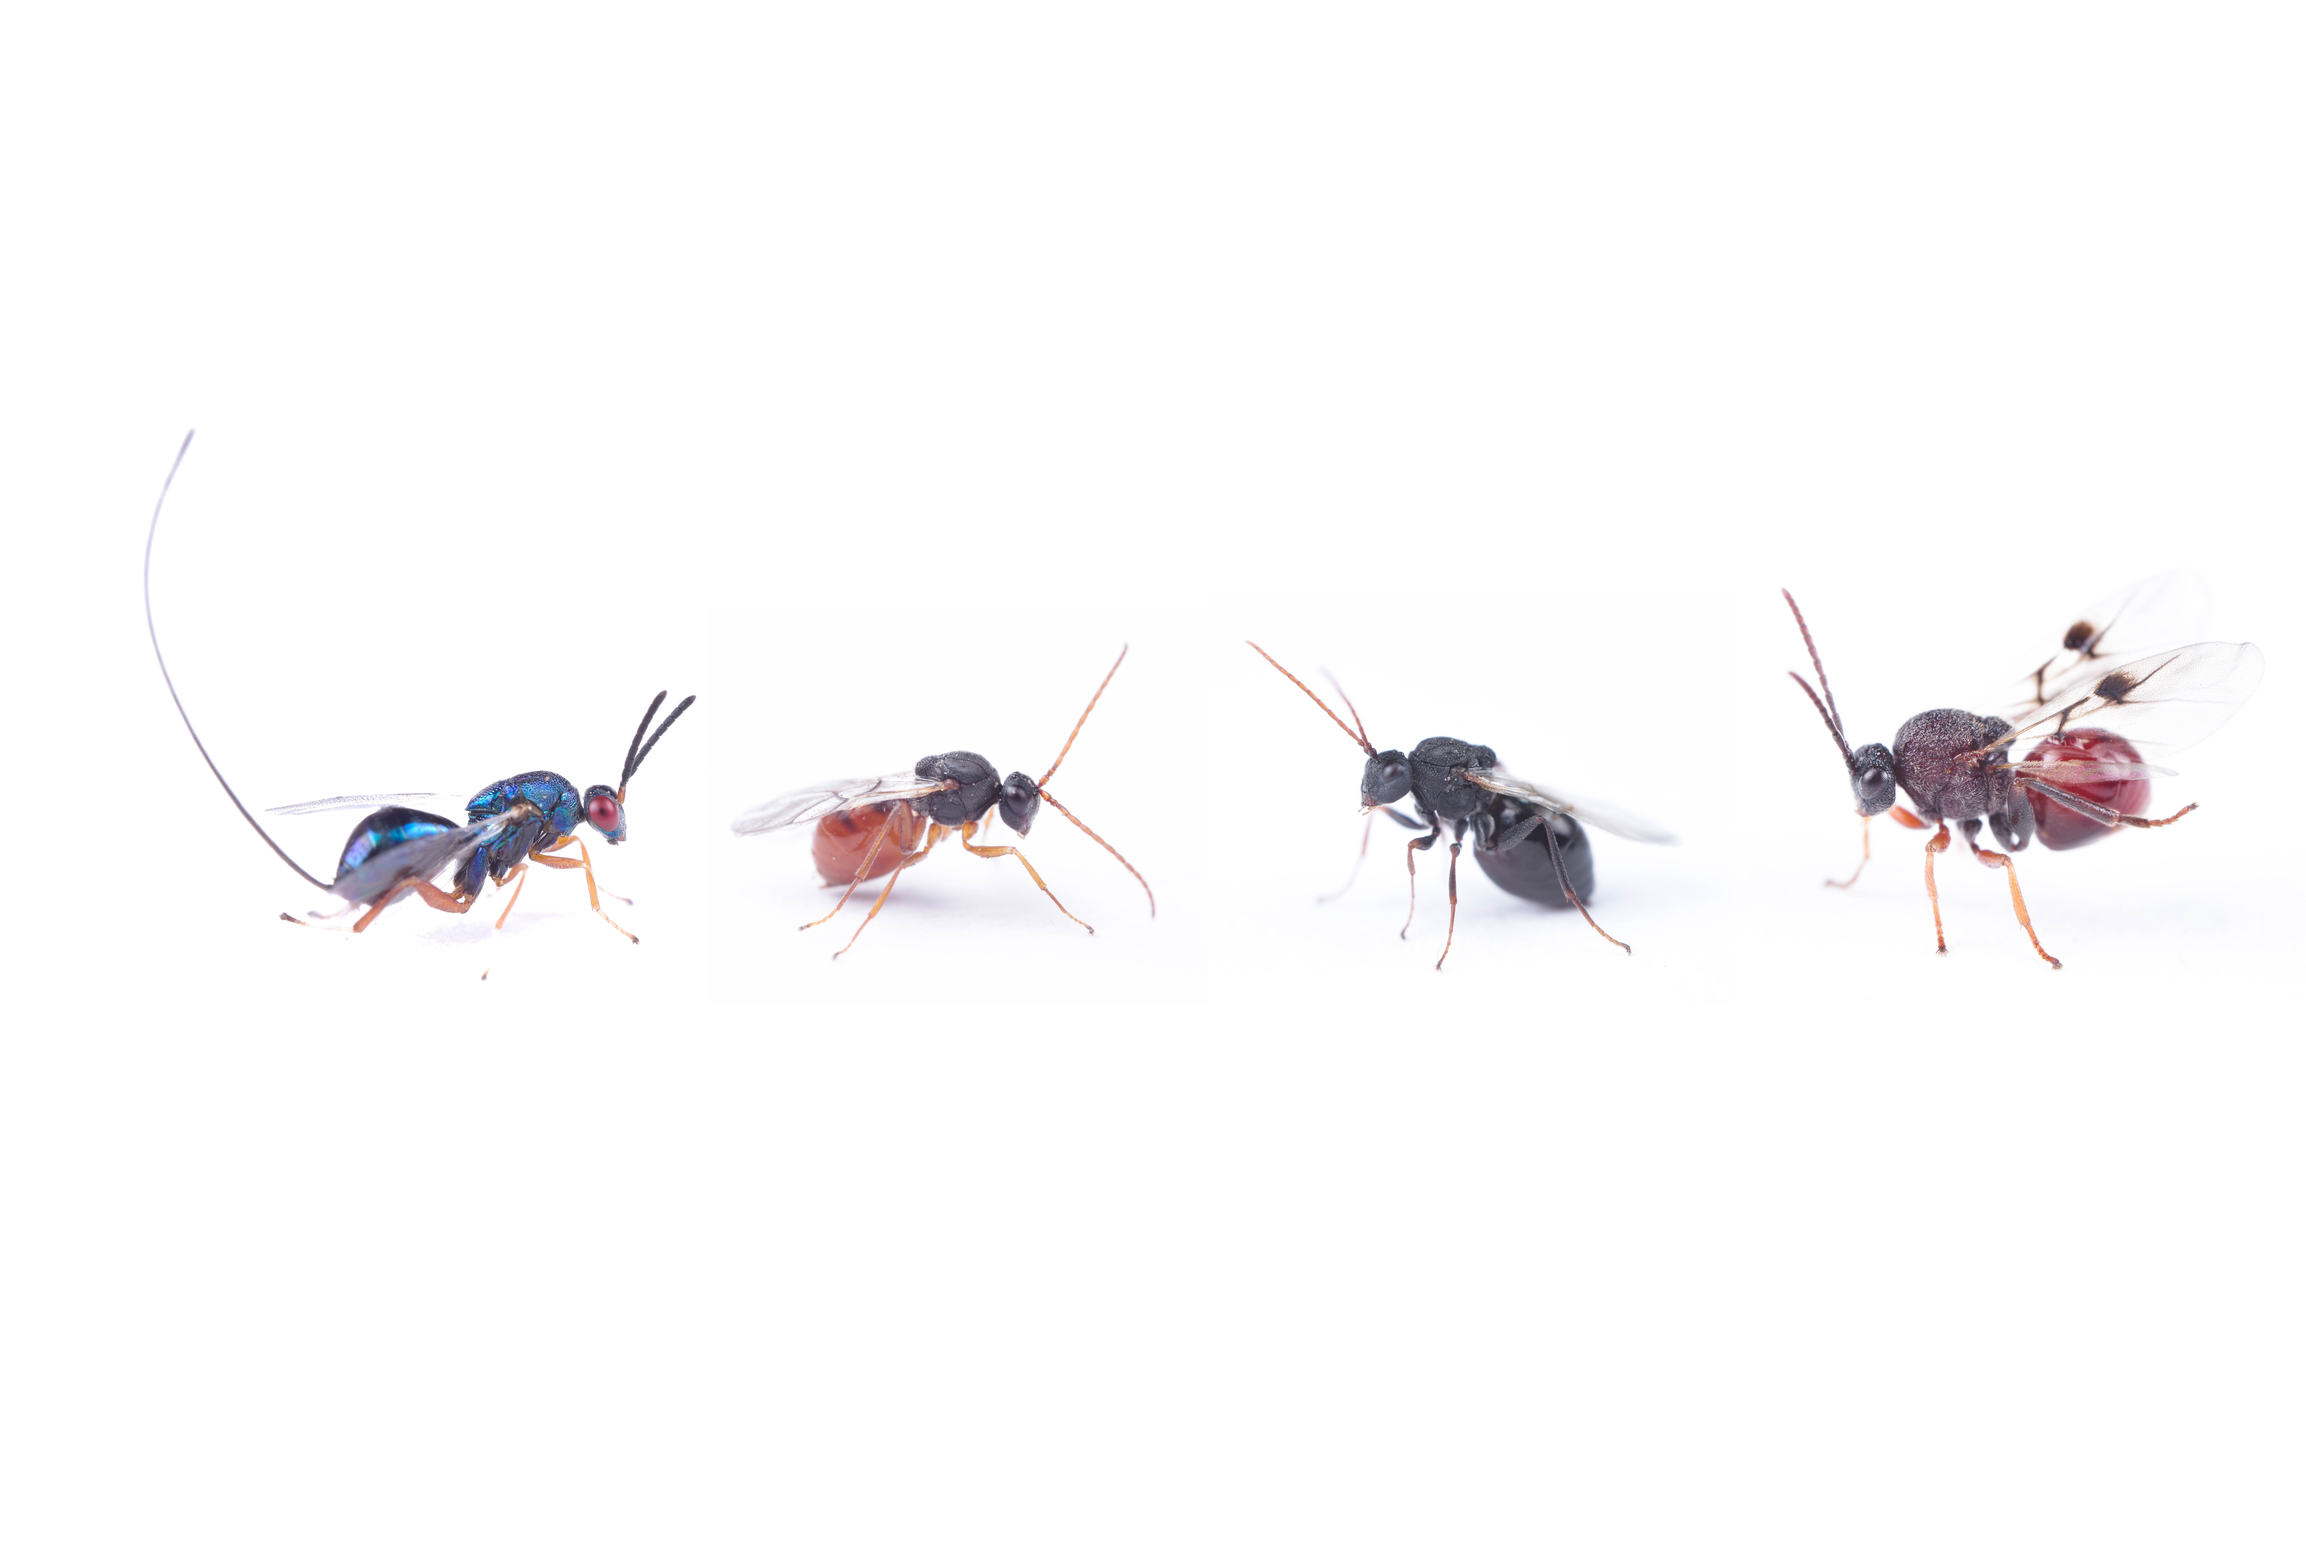
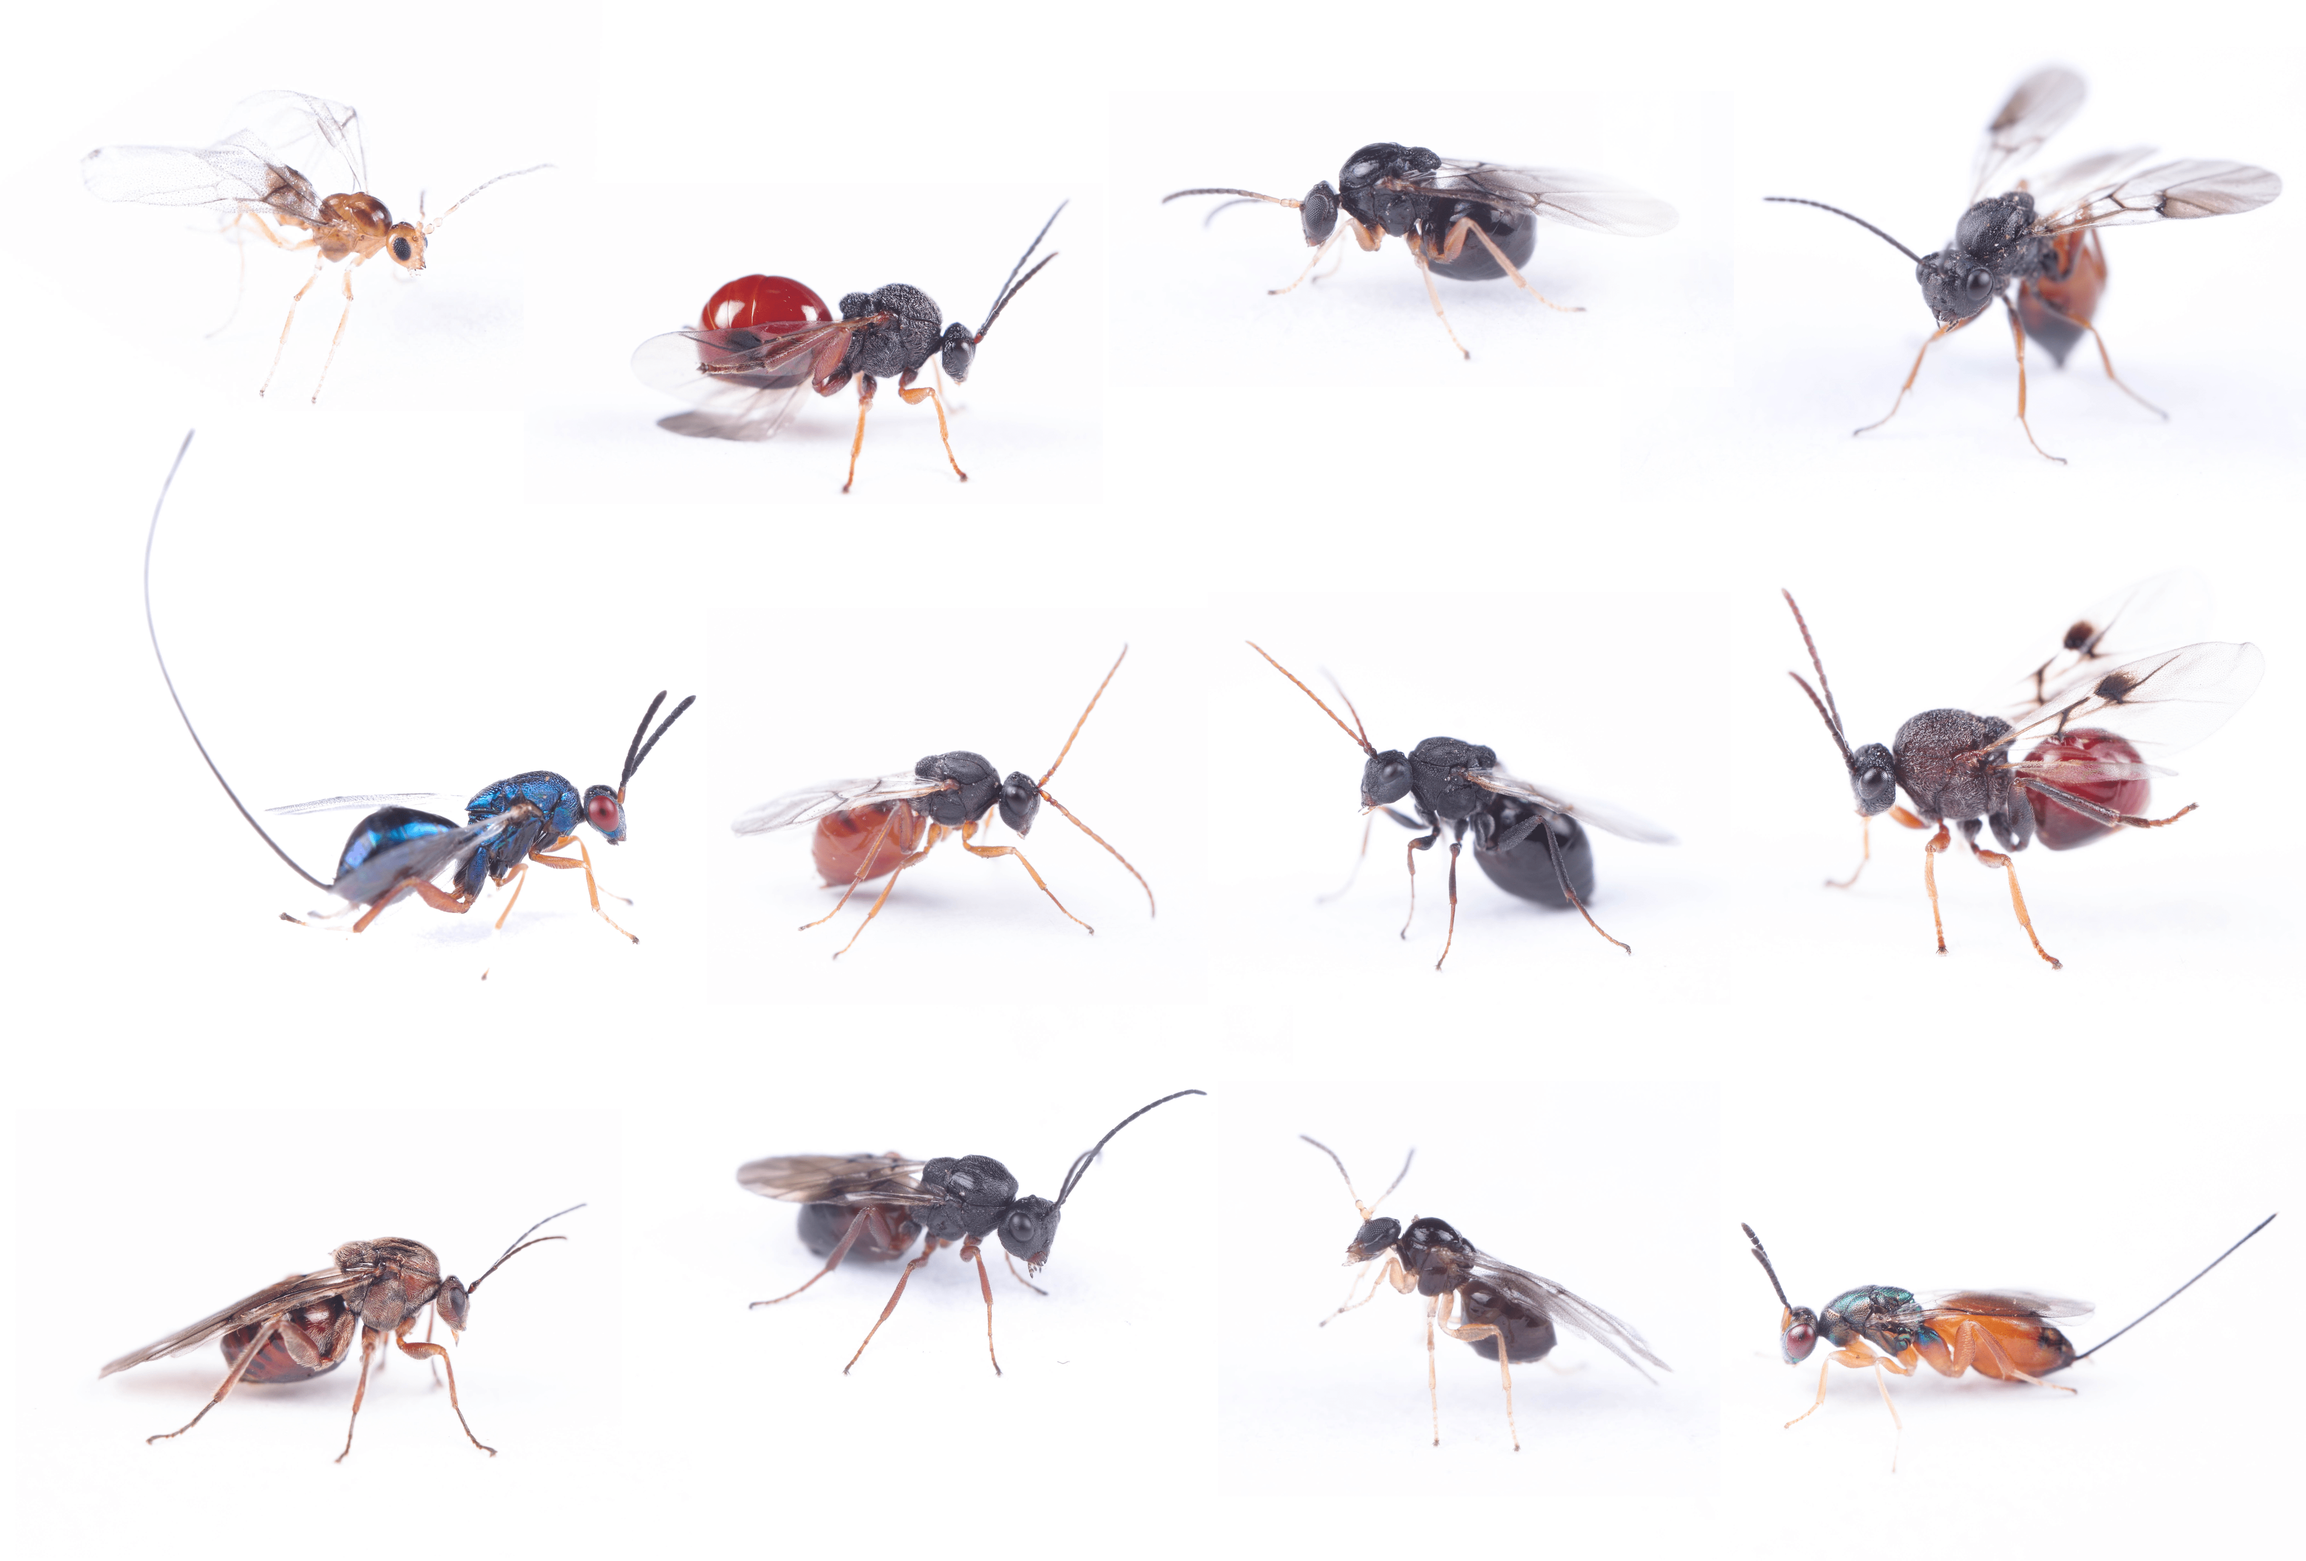
pngf

diff --git a/content/en/publication/_index.md b/content/en/publication/_index.md
@@ -7,6 +7,6 @@ view: compact
 # Optional banner image (relative to `assets/media/` folder).
 banner:
   caption: ''
-  image: 'wasps3.png'
+  image: 'wasps.png'
 
 ---

diff --git a/content/fr/publication/_index.md b/content/fr/publication/_index.md
@@ -7,5 +7,5 @@ view: compact
 # Optional banner image (relative to `assets/media/` folder).
 banner:
   caption: ''
-  image: 'wasps2.png'
+  image: 'wasps.png'
 ---
